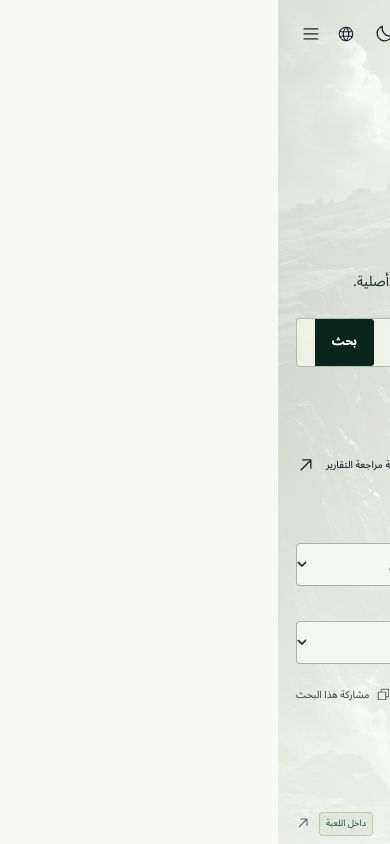
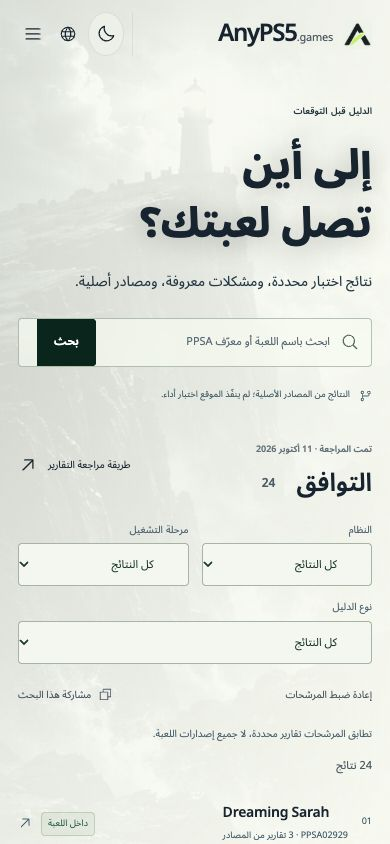
Save verified production RTL viewport evidence

diff --git a/design-qa.md b/design-qa.md
@@ -67,3 +67,5 @@ P3: generated imagery retains the composition rather than exact pixel identity w
 Both HTTPS domains were opened in the browser after the Git deployment. The production layouts use the same source assets and components; single-button theme switching, PPSA03306 + Linux => Boot with local patches, one-result grammar, reset, and zero console warnings/errors were rechecked. Production screenshots are recorded in `docs/qa/production-cc-dark-full.jpg` and `production-games-dark-full.jpg`; public network checks cover all seven localized home routes and the key guide/game paths.
 
 A source audit after production launch preserves Silt Linux patch status as null (not specified) and adds the DOOM homebrew CPU/local build while correcting AGC-to-CPU-scaler startup scope. The new regression check passes; no gameplay benchmark is inferred.
+
+The Arabic phone, tablet and detail evidence was recaptured from the production domain as exact viewport screenshots. The saved buffers were also displayed inline and inspected, avoiding a browser full-page tiling artifact during RTL viewport changes.
